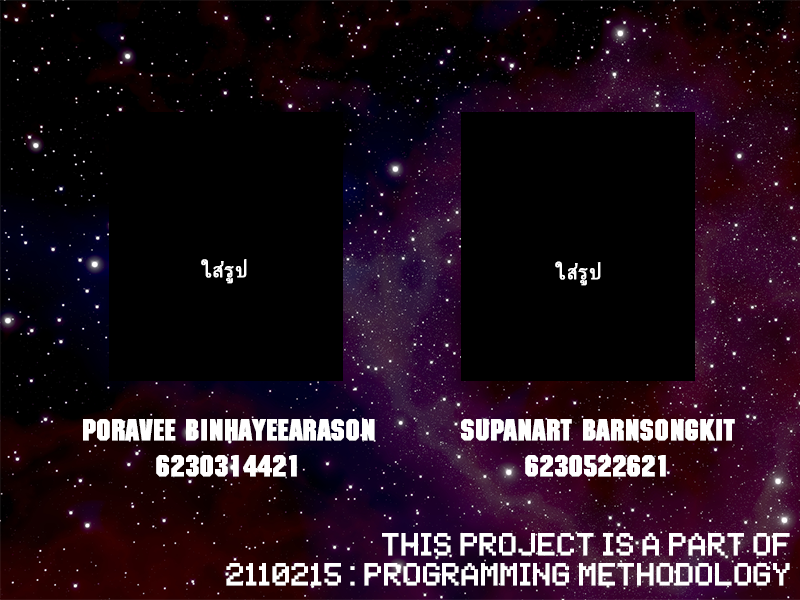
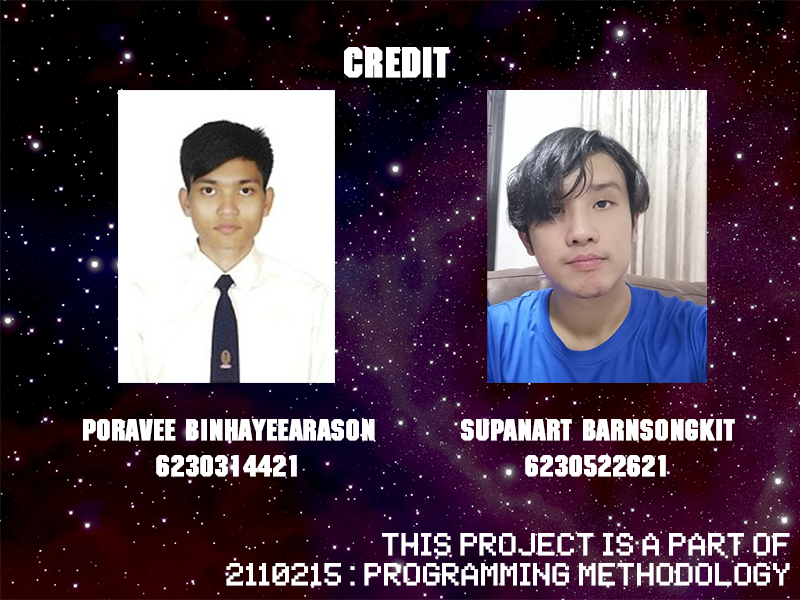
credit_bg

Changed region(s): [[0.5625, 0.15, 0.9062, 0.66], [0.125, 0.15, 0.4375, 0.66], [0.4062, 0.06, 0.5625, 0.15]]

diff --git a/src/application/ResourceManager.java b/src/application/ResourceManager.java
@@ -72,7 +72,7 @@ public class ResourceManager {
 		public final Image CREDITS_BACKGROUND;
 
 		CreditsResource() {
-			CREDITS_BACKGROUND = readImg("democredit.png");
+			CREDITS_BACKGROUND = readImg("creditbg.png");
 		}
 	}
 
